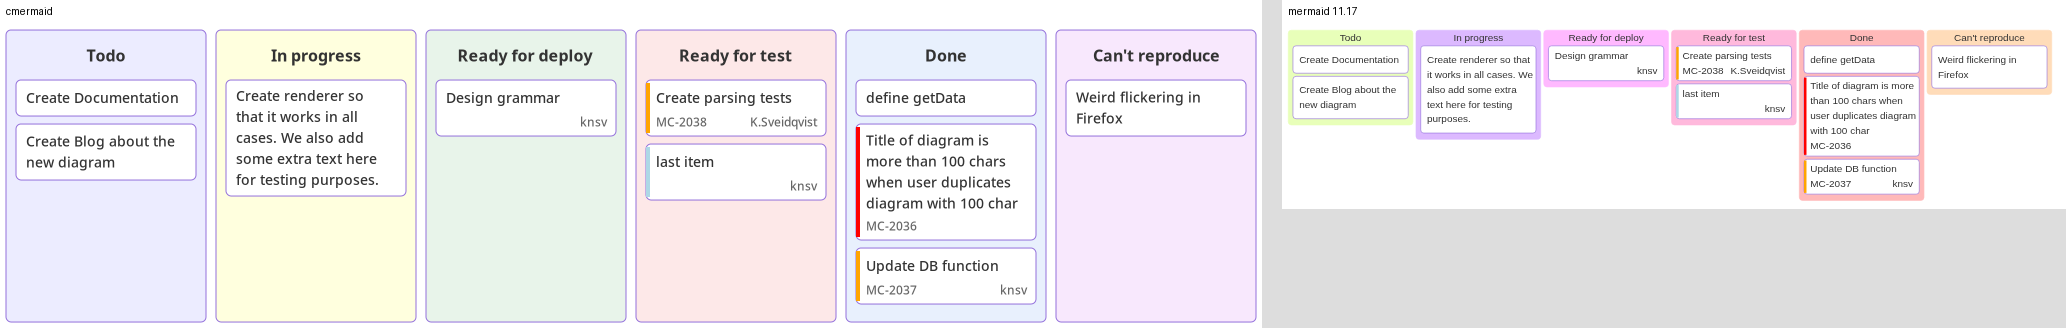
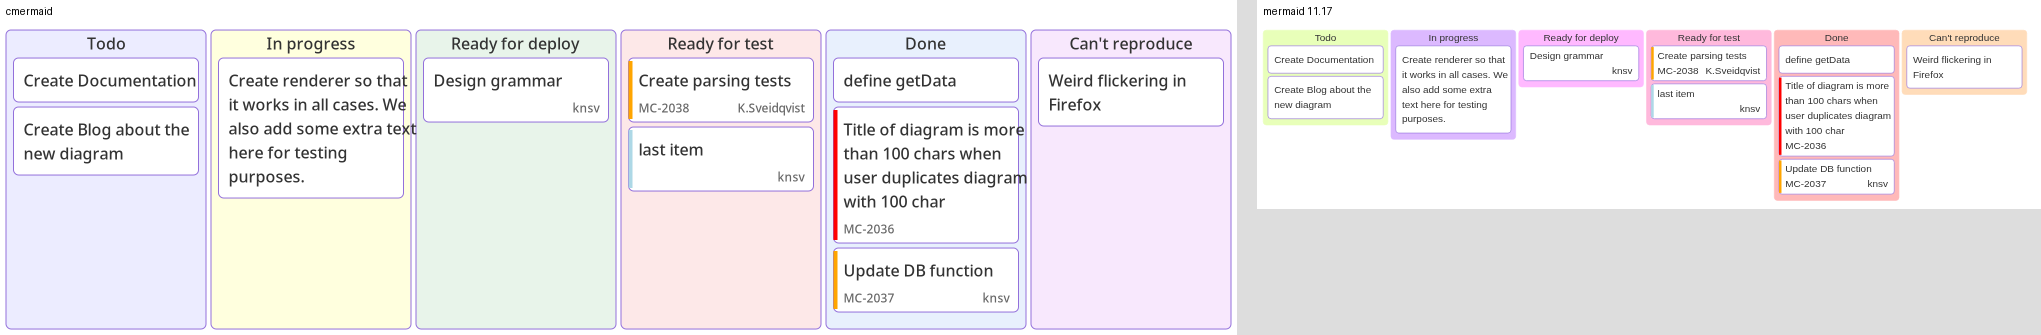
kanban: mermaid 11 metrics (5px gaps, 185px cards, 16px text, per-column heights)

Changed region(s): [[0.0, 0.0, 1.0, 1.0], [0.0, 0.0305, 0.0309, 0.061]]

diff --git a/src/d_kanban.c b/src/d_kanban.c
@@ -10,8 +10,8 @@
 typedef struct KItem { Str label, assigned, ticket, priority; uint32_t col; double h; } KItem;
 
 static constexpr char CSS[] =
-    "#mermaid .kc{stroke:#9370DB;stroke-width:1px;}#mermaid .kt{font-size:16px;fill:#333;font-weight:bold;}"
-    "#mermaid .ki{fill:#fff;stroke:#9370DB;stroke-width:1px;}#mermaid .kl{font-size:14px;fill:#333;}"
+    "#mermaid .kc{stroke:#9370DB;stroke-width:1px;}#mermaid .kt{font-size:16px;fill:#333;}"
+    "#mermaid .ki{fill:#fff;stroke:#9370DB;stroke-width:1px;}#mermaid .kl{font-size:16px;fill:#333;}"
     "#mermaid .km{font-size:12px;fill:#666;}#mermaid .kp{stroke-width:4px;}";
 static const char *const COLF[] = {"#ECECFF", "#ffffde", "#e8f4ea", "#fde8e8", "#e8f0fd", "#f8e8fd"};
 
@@ -80,22 +80,22 @@ DIAG_FN(kanban_render) {
     }
     if (!cols.n) return diag_fail(err_off, msg, off, "kanban has no columns");
     constexpr double CW = 200;
-    constexpr double GAP = 10;
-    constexpr double PADC = 10;
+    constexpr double GAP = 5; /* mermaid 11: 200px columns, 5px apart, 185px cards */
+    constexpr double PADC = 7.5;
     double top = title.n ? 40 : 0, colh = 0;
     double *ch = ANEW(a, double, cols.n);
     if (!ch) return CMM_ERR_NOMEM;
-    for (size_t c = 0; c < cols.n; c++) ch[c] = 50;
+    for (size_t c = 0; c < cols.n; c++) ch[c] = 30;
     for (size_t i = 0; i < items.n; i++) {
         KItem *k = &items.v[i];
-        Str w = dg_wrap(a, k->label, 14, CW - 2 * PADC - 36);
+        Str w = dg_wrap(a, k->label, 16, 175);
         if (!w.p && k->label.n) return CMM_ERR_NOMEM;
         k->label = w;
         double tw;
         unsigned nl;
-        label_measure(w, 14, &tw, &nl);
-        k->h = nl * 20 + 16 + (k->assigned.n || k->ticket.n ? 20 : 0);
-        ch[k->col] += k->h + 8;
+        label_measure(w, 16, &tw, &nl);
+        k->h = nl * 24 + 20 + (k->assigned.n || k->ticket.n ? 20 : 0);
+        ch[k->col] += k->h + 5;
     }
     for (size_t c = 0; c < cols.n; c++) if (ch[c] > colh) colh = ch[c];
     double W = (double)cols.n * (CW + GAP) - GAP;
@@ -106,10 +106,10 @@ DIAG_FN(kanban_render) {
     if (!cy) return CMM_ERR_NOMEM;
     for (size_t c = 0; c < cols.n; c++) {
         double x = (double)c * (CW + GAP);
-        dg_rect_fill(out, x, top, CW, colh + 10, 5, "kc", COLF[c % countof(COLF)]);
+        dg_rect_fill(out, x, top, CW, ch[c] + 5, 5, "kc", COLF[c % countof(COLF)]); /* mermaid sizes each column to its cards */
         Str t = dg_wrap(a, cols.v[c], 16, CW - 20);
-        dg_text(out, t.p ? t : cols.v[c], 16, x + CW / 2, top + 25, "middle", "kt");
-        cy[c] = top + 50;
+        dg_text(out, t.p ? t : cols.v[c], 16, x + CW / 2, top + 13, "middle", "kt");
+        cy[c] = top + 28;
     }
     for (size_t i = 0; i < items.n; i++) {
         const KItem *k = &items.v[i];
@@ -126,10 +126,10 @@ DIAG_FN(kanban_render) {
             buf_lit(out, "\" y2=\""); buf_num(out, y + k->h - 3); buf_lit(out, "\"/>");
         }
         double meta = k->assigned.n || k->ticket.n ? 20 : 0;
-        dg_text(out, k->label, 14, x + 10, y + (k->h - meta) / 2, "start", "kl");
+        dg_text(out, k->label, 16, x + 10, y + (k->h - meta) / 2, "start", "kl");
         if (k->ticket.n) dg_text(out, k->ticket, 12, x + 10, y + k->h - 14, "start", "km");
         if (k->assigned.n) dg_text(out, k->assigned, 12, x + w - 8, y + k->h - 14, "end", "km");
-        cy[k->col] += k->h + 8;
+        cy[k->col] += k->h + 5;
     }
     if (title.n) dg_text(out, title, 18, W / 2, 18, "middle", "kt");
     buf_lit(out, "</svg>\n");
